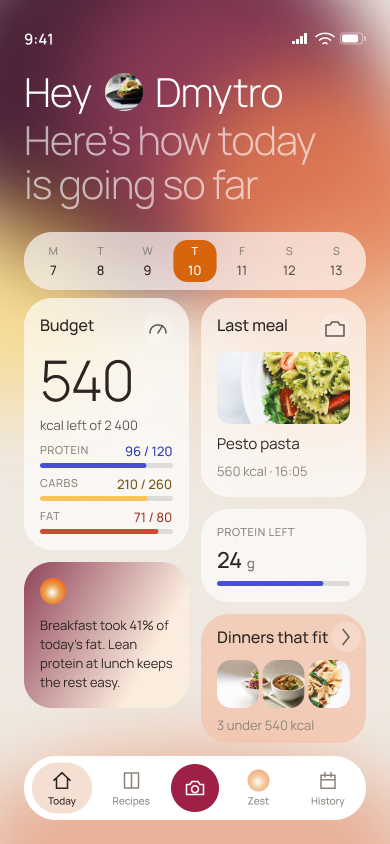
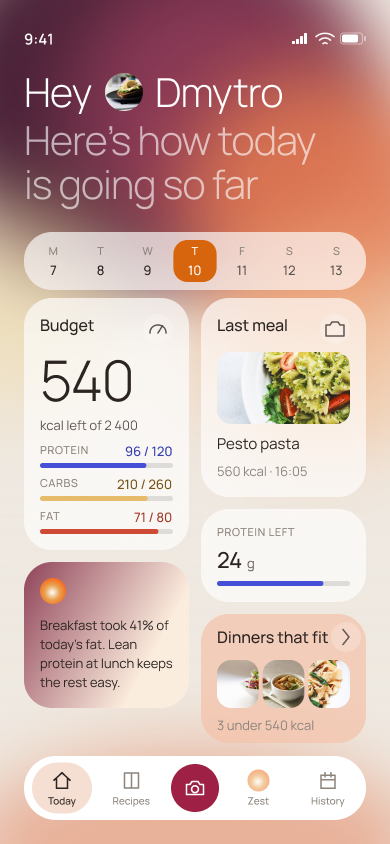
design: edge cases, AI motion, muted yellows
Eight edge-case screens — no plate, two dishes alike, too dark, no connection, unknown
barcode, over budget, first day, a corrected estimate — each keeping the rules (fact
first, no verdicts, one way forward, nothing lost) and each its own prototype flow.

Motion is reserved for the AI: the lens breathes while it looks, a bead orbits the ring
while it reads, the orb breathes while it thinks. Verified from rendered video frames.

The yellows are muted (bloom/butter, macro/carbs) and the Secondary button gets its own
token so it stays visible on white sheets. All exports refreshed.

Claude-Session: https://claude.ai/code/session_01FDPnJdAVQFe1ai4QzDTio4

Changed region(s): [[0.0, 0.2464, 0.2769, 0.4621]]

diff --git a/README.md b/README.md
@@ -48,11 +48,12 @@ from what the person actually ate.** The atmosphere is data, not decoration.
 |---|---|---|
 | Ground | `ground/porcelain` | `#EFE9E1` |
 | Bloom | `bloom/plum` → `bloom/mulberry` → `bloom/ember` → `bloom/amber` | `#4A2238` `#8C3A56` `#E27A52` `#F2B585` |
-| Sampled from food | `bloom/butter` | `#FFCB2F` |
+| Sampled from food | `bloom/butter` | `#EDD28E` |
 | **Action** — committing button, nav camera | `action/primary` | `#9E2044` burgundy |
 | State (selected, progress, shutter) | `accent/ember` | `#D7650E` |
-| Protein · Carbs · Fat | `macro/*` | `#4550D7` `#FBC357` `#CE4A34` |
+| Protein · Carbs · Fat | `macro/*` | `#4550D7` `#E6BC6A` `#CE4A34` |
 | Opaque surface (nav, inputs) · suggestion tiles | `surface/raised` · `glass/peach` | `#FFFFFF` · `#F4BFA5` 66 % |
+| Secondary button | `action/secondary` | ink at 7 % |
 
 **The rule that keeps controls readable:** a control is never the colour of the
 atmosphere. The committing action is burgundy on every screen with no exceptions and the
@@ -78,7 +79,7 @@ status bar at 0, navigation at 59, bottom bar 24 from the edge.
 |---|---|---|
 | 1 | Branding / stylescapes | Figma page `01 · Branding` — logo exploration and three 4000 × 1000 stylescapes: **Natural light** (the brand), **The plate is data** (the product), **No verdicts** (the voice). Exports in [`01-branding/`](01-branding/) |
 | 2 | Design system | Figma pages `02 · Foundations` and `03 · Components` |
-| 3 | Key screens & flows | Figma page `04 · Screens & Prototype` — 10 screens, ~40 prototype links, start point on Welcome |
+| 3 | Key screens & flows | Figma page `04 · Screens & Prototype` — 10 happy-path screens and 8 edge cases, ~60 prototype links, 9 flows (the full journey + one per edge case). Exports in [`03-screens/`](03-screens/) and [`04-edge-cases/`](04-edge-cases/) |
 
 See [`links.md`](links.md) for the Figma link and the video walkthrough.
 
@@ -112,9 +113,31 @@ The camera in the nav always opens Capture. Every burgundy button commits someth
 returns to Today, where it lands. Nothing on a screen duplicates a control that already
 lives in the navigation.
 
+### Motion — only where the AI is working
+
+Motion is reserved for one meaning: *the AI is doing something*. Nothing else on screen
+moves, so when something does, it is always the assistant.
+
+| Screen | What moves | What it says |
+|---|---|---|
+| Capture | The lens ring breathes (100 → 106 %), its halo swells a beat later, "Plate in view" rises in | It is looking |
+| Analysing | A bead orbits the ring, two turns in 2.2 s; found items surface one by one; the progress bar fills | It is reading, and you can see what it has found so far |
+| Ask Zest | The orb breathes; the question, the answer and the next steps arrive in order | It is thinking, then answering |
+| Today · Result · Recipe detail | The Zest orb on the insight tile pulses gently | This line was written by the assistant |
+
+Built with Figma Motion keyframes and checked frame by frame from a rendered video. In the
+edge cases the motion stops on purpose — a stopped orbit is how "no connection" looks.
+
+### Edge cases
+
+Eight screens for the moments a happy path never shows — no plate in the photo, two dishes
+that look alike, a dark kitchen, no network, an unknown barcode, a day over budget, the
+first empty day, a corrected estimate. Each keeps the rules: fact first, no verdicts, one
+way forward, nothing lost. See [`04-edge-cases/`](04-edge-cases/).
+
 ### Design system
 
-- ~53 Figma variables (colour, spacing, radius) — no hardcoded values in any screen
+- ~54 Figma variables (colour, spacing, radius) — no hardcoded values in any screen
 - 11 text styles
 - Components: `Logo` (3 lockups), `StatusBar` (2 tones), `Nav` (4 active states, labelled),
   `Button` (3 kinds × L 46 / M 38), `Chip`, `Badge`, `RoundControl` (back, close, edit, flash)

diff --git a/docs/PROGRESS.md b/docs/PROGRESS.md
@@ -91,21 +91,25 @@ S07 Ask Zest · S08 Recipes · S09 Recipe detail · S10 History
 - The camera in the nav always opens Capture, from every tab.
 - Every committing button returns to Today, where the meal lands.
 
-## Still to do (from round 1)
+## Round 3 — stylescapes, AI motion, edge cases (11 Sept)
 
-1. **Edge cases** — explicitly requested, deliberately left until the happy path was
-   complete. Candidates worth designing rather than listing:
-   - the photo contains no food, or the model is unsure which of two dishes it is
-   - a plate is photographed in the dark, or half out of frame
-   - the estimate is wrong and the person corrects it — what the correction teaches
-   - going over the day's budget, said without a verdict (rule 03)
-   - no connection while the photo is being analysed
-   - a barcode that is not in the database
-   - the first day, with nothing logged yet (empty state)
-   - a day skipped entirely, then reopened a week later
-2. **Cover page** and **flow map** page
-3. Push to a public GitHub repository, verify from incognito
-4. Video walkthrough covering all three deliverables
+- **Three stylescapes** 4000 × 1000 in the reference format, built from live screens,
+  components and tokens: Natural light · The plate is data · No verdicts. The outdated v1
+  stylescape was removed from Figma.
+- **AI motion** (Figma Motion keyframes) on Capture, Analysing, Ask Zest and the Zest orb
+  on insight tiles — verified from rendered video frames.
+- **Eight edge cases** (E01–E08) on the Screens page, row at y = 1100, each its own
+  prototype flow. Exports in `04-edge-cases/`.
+- **Yellows muted** at Sofia's request: `bloom/butter` `#EDD28E`, `macro/carbs` `#E6BC6A`.
+- **Secondary button fixed**: new token `action/secondary` (ink at 7 %) — binding a paint to
+  a variable drops the paint's own opacity, so the alpha has to live in the variable.
+
+## Still to do
+
+1. **Cover page** and **flow map** page
+2. Push to a public GitHub repository, verify from incognito
+3. Share the Figma file as "Anyone with the link · can view"; paste the Present link
+4. Video walkthrough covering all three deliverables (script in `docs/VIDEO-SCRIPT.md`)
 
 ## Decisions worth defending on video
 
@@ -133,4 +137,8 @@ S07 Ask Zest · S08 Recipes · S09 Recipe detail · S10 History
 - Prototype `NAVIGATE` destinations must be top-level frames **on the same page**, and a
   frame cannot navigate to itself.
 - Overlay settings (`overlayPositionType`, background) are read-only in the Plugin API.
+- Binding a paint to a variable resets the paint's `opacity` to 1 — put the alpha in the
+  variable's value instead.
+- Motion: `get_screenshot` shows only the resting state; verify with `export_video` and
+  `ffmpeg` frame extraction.
 - Arc commands (`A`) are not supported in `vectorPaths`; use cubic curves.

diff --git a/04-edge-cases/README.md b/04-edge-cases/README.md
@@ -1,0 +1,28 @@
+# Edge cases
+
+A happy path shows what the product does when everything goes right. These eight screens
+show what it does when it doesn't: the camera is pointed at the wrong thing, the model is
+unsure, the network drops, the day goes over plan.
+
+Every case keeps the product's rules:
+
+- **Fact first, no verdicts.** Say what happened in numbers, never judge it.
+- **One way forward.** One burgundy button that fixes the situation; a secondary for the
+  alternative.
+- **Nothing is lost.** No case throws away what the person already did.
+- **The AI is honest about itself.** When it doesn't know, it says so, and says how sure it
+  is.
+
+| File | Case | What Zest does |
+|---|---|---|
+| `E01-no-plate-found.png` | The photo has no plate in it — too close, blurred, or not food | Says so plainly, dashes the ring, offers **Retake the photo** or **Type it instead**. Nothing was added. |
+| `E02-two-dishes-look-alike.png` | The model can't tell two dishes apart | Shows both with its confidence (82 % / 18 %) and asks. The likelier one is pre-selected. |
+| `E03-too-dark.png` | The kitchen is too dark to read the plate | The ring goes dashed, the pill names the problem, and the flash button lights up in the state colour — the fix is the thing that glows. |
+| `E04-no-connection.png` | The network drops while the photo is being read | The orbit stops, the photo is queued on the phone, and Zest promises a notification when it's read. Back to Today, nothing lost. |
+| `E05-barcode-not-in-the-list.png` | A barcode that isn't in the database | Explains, then turns it into a contribution: photograph the label once and the next scan works for everyone. |
+| `E06-past-the-budget.png` | The day goes 120 kcal over plan | Stated as a fact in the clay tone — "120 kcal past 2 400 · 5 %" — and Zest adds "Tomorrow starts fresh." No red, no "you failed". |
+| `E07-first-day.png` | The first day, nothing logged yet | The bloom is sampled from what you ate, so with nothing eaten it is almost colourless. Every tile says where the first plate will land. |
+| `E08-correcting-an-estimate.png` | The estimate is wrong and the person fixes it | A stepper corrects the avocado from 80 g to 120 g, the meal total updates, and Zest learns: "I'll start from 120 g next time." |
+
+In the prototype each case is its own flow (`Edge · …` in Present mode), and each one
+returns to the happy path through its own button.

diff --git a/02-design-system/README.md b/02-design-system/README.md
@@ -9,7 +9,7 @@ switched once mid-project and the screens followed automatically.
 
 ## Foundations
 
-- ~53 variables across `ground/*`, `surface/*`, `bloom/*`, `glass/*`, `ink/*`,
+- ~54 variables across `ground/*`, `surface/*`, `bloom/*`, `glass/*`, `ink/*`,
   `onbloom/*`, `accent/*`, `action/*`, `macro/*`, `track/*`, `space/*`, `radius/*`
 - 11 text styles, all Manrope: `Head/XL·L·M`, `Text/Title·Body·S·Label·Caption`,
   `Metric/XL·L·S`
@@ -18,7 +18,8 @@ switched once mid-project and the screens followed automatically.
 |---|---|---|
 | Committing action, nav camera | `action/primary` | `#9E2044` |
 | State — selected, progress, shutter | `accent/ember` | `#D7650E` |
-| Protein · Carbs · Fat | `macro/*` | `#4550D7` `#FBC357` `#CE4A34` |
+| Protein · Carbs · Fat | `macro/*` | `#4550D7` `#E6BC6A` `#CE4A34` |
+| Secondary button | `action/secondary` | ink at 7 % |
 | Opaque surface — nav, input fields | `surface/raised` | `#FFFFFF` |
 | Suggestion tiles — recipe teaser, Zest's reply | `glass/peach` | `#F4BFA5` at 66 % |
 
@@ -31,7 +32,9 @@ switched once mid-project and the screens followed automatically.
 ## The rules worth knowing
 
 **One burgundy button per screen.** Primary sits at the bottom, full width, and commits
-something; pressing it returns to Today. Screens that have one hide the nav.
+something; pressing it returns to Today (a sheet's primary returns to the screen beneath).
+Screens that have one hide the nav. Secondary is ink at 7 % so it reads on paper and on
+the bloom alike — the earlier white glass disappeared on white sheets.
 
 **Four places and one verb.** The nav holds Today · Recipes · Zest · History, each with a
 label; the active one sits on a soft peach pill. The camera in the middle is the verb and
@@ -46,3 +49,7 @@ actions.
 
 **Every macro hue has a text-safe twin.** `macro/protein` is for bars and
 `macro/protein-ink` is for the number beside it.
+
+**Motion means the AI is working.** Nothing else animates: the lens breathes while it
+looks, a bead orbits while it reads, the orb breathes while it thinks. When the AI is
+stuck (no connection), the motion stops.
